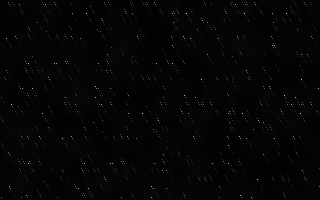
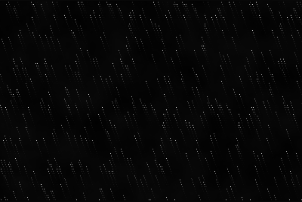
tune: denser/brighter default look for rain, snow, embers
These ambients render the phenomena correctly but were near-invisible at default
(means ~3-5) — a fresh click looked empty. Modest brightening + density so they
read alive immediately while staying appropriately sparse-on-black; sliders still
span sparse->dense. Re-baked their thumbnails.

rain mean 5->9, snow 3->5, embers 22->31; max stays 255, no blow-out; 0 errors.

diff --git a/main.js b/main.js
@@ -442,7 +442,7 @@ fn ambEmbers(uv: vec2f) -> f32 {
     let tw = 0.5 + 0.5 * sin(ph * (1.5 + speed * 3.0) + fi * 2.0);
     let core = exp(-d * d / (r * r));
     let glow = exp(-d / (r * 4.0 + 0.002)) * (0.2 + 0.2 * p.ambDetail);
-    v = v + (core + glow) * mix(0.35, 1.0, tw) * efade;
+    v = v + (core * 1.3 + glow * 1.4) * mix(0.45, 1.0, tw) * efade;
   }
   return clamp(v, 0.0, 1.0);
 }
@@ -472,7 +472,7 @@ fn ambRain(uv: vec2f) -> f32 {
   var q = uv; q.x = q.x * p.canvasAspect;
   let slant = (p.driftAngle - 0.5) * 1.4;
   let sx = q.x + q.y * slant;
-  let cols = mix(40.0, 160.0, p.ambCount);
+  let cols = mix(60.0, 200.0, p.ambCount);
   let colf = sx * cols;
   let col = floor(colf);
   let fx = fract(colf);
@@ -481,8 +481,8 @@ fn ambRain(uv: vec2f) -> f32 {
   let yy = fract(q.y * mix(1.0, 3.0, p.ambSize) + ph * speed + seed * 10.0);
   let streak = pow(1.0 - yy, mix(8.0, 28.0, 1.0 - p.ambSoft));
   let lineW = pow(smoothstep(0.5, 0.0, abs(fx - 0.5)), mix(6.0, 26.0, p.ambSize));
-  var v = streak * lineW * (0.5 + 0.5 * seed);
-  v = v + fbm(q * 8.0 + ph * 0.3) * 0.05 * p.ambDetail;
+  var v = streak * lineW * (0.7 + 0.5 * seed);
+  v = v + fbm(q * 8.0 + ph * 0.3) * 0.08 * p.ambDetail;
   return clamp(v, 0.0, 1.0);
 }
 fn ambSnow(uv: vec2f) -> f32 {
@@ -494,7 +494,7 @@ fn ambSnow(uv: vec2f) -> f32 {
   var v = 0.0;
   for (var L = 0; L < 3; L = L + 1) {
     let lf = f32(L);
-    let dens = mix(8.0, 26.0, p.ambCount) * (1.0 + lf * 0.5);
+    let dens = mix(12.0, 34.0, p.ambCount) * (1.0 + lf * 0.5);
     let sz = mix(0.5, 1.4, p.ambSize) * (1.0 - lf * 0.22);
     let sp = (0.05 + 0.04 * lf) * (0.5 + p.ambSpeed);
     let drift = dir * ph * 0.02 * p.driftAmount + vec2f(sin(ph * 0.5 + lf) * 0.02, -ph * sp);
@@ -507,7 +507,7 @@ fn ambSnow(uv: vec2f) -> f32 {
     let r = 0.10 * sz * (0.6 + 0.5 * rnd);
     let flake = smoothstep(r, r * 0.2, d);
     let sway = 0.5 + 0.5 * sin(ph * (1.0 + rnd * 2.0) + cell.x);
-    v = v + flake * mix(0.5, 1.0, sway) * (0.5 + 0.5 / (1.0 + lf));
+    v = v + flake * mix(0.6, 1.0, sway) * (0.7 + 0.5 / (1.0 + lf));
   }
   return clamp(v, 0.0, 1.0);
 }